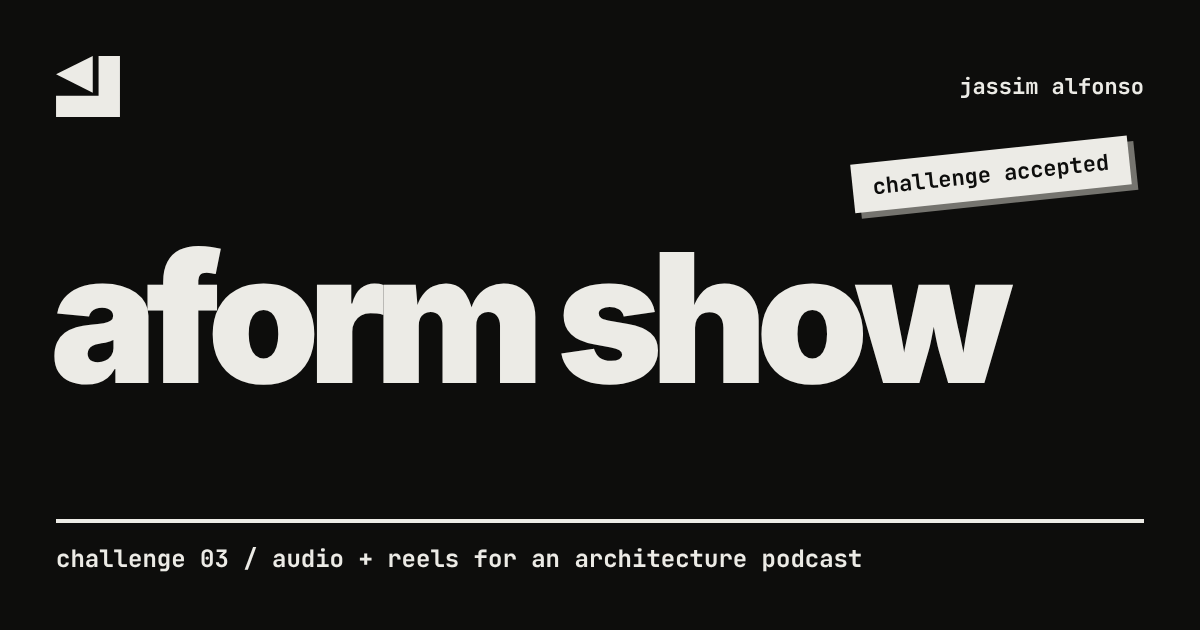
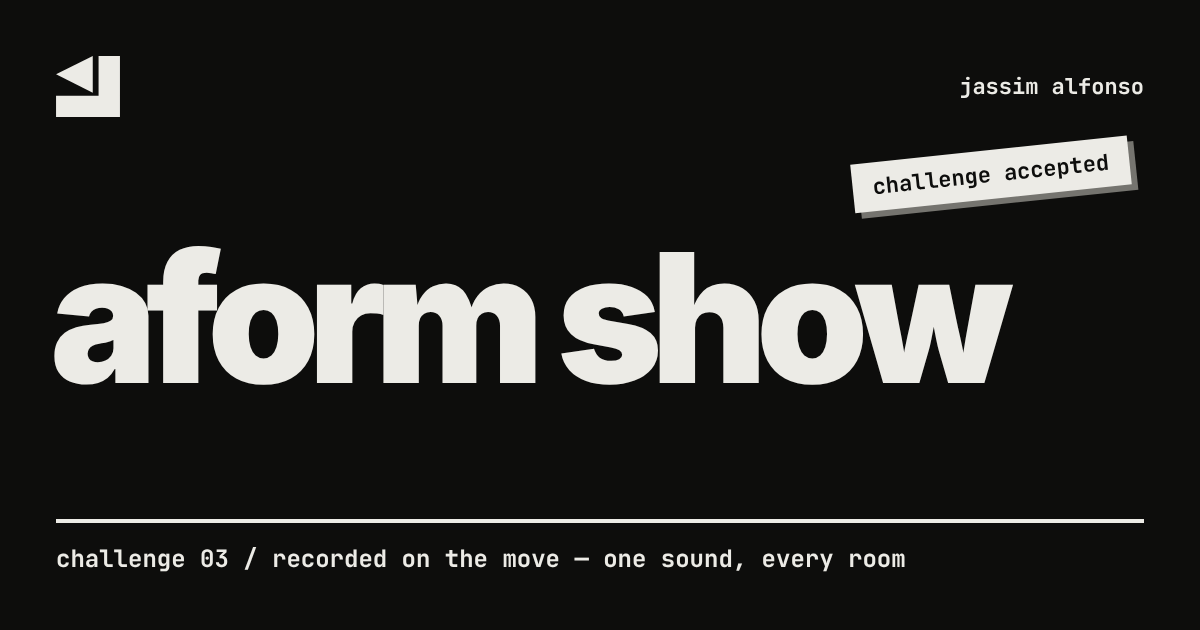
aForm: recorded on location; home hero becomes a draggable collage
- aForm challenge rewritten: the show records at the guest's location,
  so audio varies room to room and has to be kept consistent
- New demo: three locations (echo, AC hum, wind) — clean, tame, level to −16
- Filler + reel demo moves to "The edit"
- Home hero: masthead strip and draggable, tap-to-open cut-outs of the
  work, so the first screen isn't bare on phones or wide screens

Claude-Session: https://claude.ai/code/session_01YStkADWJgprAfQxXE7cLfe

Changed region(s): [[0.2158, 0.8746, 0.7708, 0.9048]]

diff --git a/css/style.css b/css/style.css
@@ -764,6 +764,110 @@ input[type="range"]::-moz-range-thumb { width: 16px; height: 16px; background: v
 .af-play { margin-top: 0.75rem; width: 100%; border: 1px solid var(--w) !important; padding: 0.55rem !important; }
 .af-play:hover { background: var(--w) !important; color: var(--k) !important; }
 
+/* aForm: three locations, one sound */
+.rm-steps { display: flex; flex-wrap: wrap; gap: 0.5rem; margin-bottom: 1.5rem; }
+.rm-steps button { border: 1px solid var(--g) !important; padding: 0.45rem 0.8rem 0.45rem 0.45rem !important; display: flex; gap: 0.5rem; align-items: center; }
+.rm-steps b { width: 1.4rem; height: 1.4rem; display: grid; place-items: center; background: var(--w); color: var(--k); }
+.rm-steps button[aria-pressed="true"] { background: var(--w); color: var(--k); border-color: var(--w) !important; }
+.rm-steps button[aria-pressed="true"] b { background: var(--k); color: var(--w); }
+.rm-steps .rm-reset { padding-left: 0.8rem !important; margin-left: auto; }
+.rm-rows { display: grid; gap: 1px; background: color-mix(in srgb, var(--w) 25%, transparent); border: 1px solid color-mix(in srgb, var(--w) 25%, transparent); }
+.rm-row { display: grid; grid-template-columns: 10rem 1fr 8.5rem; gap: 1rem; align-items: center; padding: 0.9rem 1rem; background: var(--k); }
+.rm-label { display: grid; }
+.rm-label span, .rm-read { color: var(--g); }
+.rm-read { display: grid; text-align: right; font-variant-numeric: tabular-nums; }
+.rm-wave { display: flex; align-items: center; gap: 2px; height: 64px; }
+.rm-wave i { flex: 1; background: var(--w); transition: height 0.5s var(--snap), background 0.3s; }
+.rm-wave i.n { background: var(--g); }
+.rm-row.is-ok .rm-label b::after { content: " ✓"; }
+.rm-foot { display: flex; flex-wrap: wrap; justify-content: space-between; gap: 1rem; margin-top: 1rem; padding: 0.75rem 1rem; border: 1px solid var(--w); }
+.rm-foot.is-ok { background: var(--w); color: var(--k); }
+.rm-verdict { font-weight: 700; }
+@media (max-width: 800px) {
+	.rm-row { grid-template-columns: 1fr 1fr; }
+	.rm-wave { grid-column: 1 / -1; order: 3; height: 48px; }
+	.rm-steps .rm-reset { margin-left: 0; }
+}
+
+/* =========================================================
+   HOME HERO: masthead + draggable cut-out collage
+   ========================================================= */
+.hero--home { padding-top: 6.5rem; }
+.masthead {
+	position: absolute; top: 5.25rem; left: var(--pad); right: var(--pad);
+	display: flex; gap: 1.25rem; flex-wrap: wrap;
+	padding: 0.45rem 0; border-top: 1px solid var(--w); border-bottom: 1px solid var(--w);
+	color: var(--g); font-size: 0.7rem;
+}
+.masthead span + span::before { content: "/"; margin-right: 1.25rem; color: color-mix(in srgb, var(--w) 30%, transparent); }
+.masthead span:last-child { margin-left: auto; color: var(--w); }
+.masthead span:last-child::before { content: none; }
+
+.collage {
+	position: absolute; left: var(--pad); right: var(--pad);
+	top: 8.5rem; height: calc(100% - 8.5rem - 22rem);
+	min-height: 18rem;
+	pointer-events: none;
+}
+.cut {
+	position: absolute; left: var(--x); top: var(--y); width: var(--cw);
+	pointer-events: auto;
+	padding: 0.45rem 0.45rem 0;
+	background: var(--w); color: var(--k);
+	box-shadow: 8px 8px 0 color-mix(in srgb, #000 55%, transparent);
+	transform: translate(var(--dx, 0px), var(--dy, 0px)) rotate(var(--r));
+	cursor: grab; touch-action: none; user-select: none;
+	animation: drop 0.6s var(--snap) both;
+	animation-delay: calc(0.45s + var(--i) * 90ms);
+	transition: box-shadow 0.2s, scale 0.2s;
+}
+.cut::before { /* tape */
+	content: ""; position: absolute; top: -0.7rem; left: 50%;
+	width: 42%; height: 1.3rem; transform: translateX(-50%) rotate(-3deg);
+	background: color-mix(in srgb, var(--w) 65%, transparent);
+	box-shadow: 0 0 0 1px color-mix(in srgb, var(--k) 15%, transparent);
+}
+.cut img { width: 100%; height: auto; display: block; filter: grayscale(1) contrast(1.35) brightness(1.05); transition: filter 0.25s; pointer-events: none; }
+.cut:hover img { filter: none; }
+.cut:hover { scale: 1.03; z-index: 5; }
+.cut.is-drag { cursor: grabbing; scale: 1.06; box-shadow: 16px 16px 0 color-mix(in srgb, #000 45%, transparent); transition: none; }
+.cut-cap { display: block; padding: 0.35rem 0.1rem 0.4rem; font-size: 0.68rem; font-weight: 700; }
+.cut-audio { display: grid; gap: 0.5rem; padding: 0.75rem; background: var(--k); color: var(--w); aspect-ratio: 4 / 3; align-content: space-between; }
+.cut-audio b { font-size: 1.6rem; font-weight: 900; letter-spacing: -0.05em; line-height: 1; }
+.cut-audio small { font: 0.65rem var(--mono); color: var(--g); }
+.cut-wave { display: flex; align-items: center; gap: 2px; height: 3rem; }
+.cut-wave i { flex: 1; background: var(--w); animation: eq 1.1s ease-in-out infinite alternate; animation-delay: calc(var(--d, 0) * 1ms); }
+.cut-wave i:nth-child(3n) { animation-duration: 0.8s; }
+.cut-wave i:nth-child(4n) { animation-duration: 1.4s; }
+@keyframes eq { to { transform: scaleY(0.35); } }
+@keyframes drop {
+	from { opacity: 0; transform: translate(0, -40px) rotate(calc(var(--r) * -3)) scale(1.3); }
+	to { opacity: 1; }
+}
+.collage-tape { position: absolute; top: auto !important; right: 2% !important; bottom: -1rem; left: auto !important; pointer-events: none; z-index: 6; }
+
+/* the name reads through anything dragged over it */
+.hero--home .hero-title { position: relative; z-index: 4; pointer-events: none; mix-blend-mode: difference; color: #fff; }
+.hero--home .hero-title .ch { pointer-events: auto; }
+.hero--home .hero-title .ch.hit { -webkit-text-stroke-color: #fff; }
+.hero--home .hero-mark { fill: #fff; }
+.hero--home .hero-foot { position: relative; z-index: 4; }
+
+@media (max-width: 800px) {
+	.hero--home { padding-top: 5.5rem; }
+	.masthead { top: 4.6rem; gap: 0.6rem; font-size: 0.62rem; }
+	.masthead span + span::before { margin-right: 0.6rem; }
+	.collage { top: 7rem; height: auto; bottom: 23rem; min-height: 16rem; }
+	.cut { left: var(--mx); top: var(--my); width: var(--mw); padding: 0.3rem 0.3rem 0; box-shadow: 5px 5px 0 color-mix(in srgb, #000 55%, transparent); }
+	.cut--sm-hide, .hide-sm { display: none; }
+	.masthead span:nth-child(4) { margin-left: auto; color: var(--w); }
+	.cut-cap { font-size: 0.6rem; }
+	.cut-audio b { font-size: 1.2rem; }
+	.cut-wave { height: 2rem; }
+	.collage-tape { bottom: -1.5rem; right: 0 !important; }
+}
+@media (prefers-reduced-motion: reduce) { .cut, .cut-wave i { animation: none; } }
+
 /* 404 */
 .lost { min-height: 100svh; display: grid; place-content: center; text-align: center; padding: var(--pad); gap: 1.5rem; }
 .lost h1 { font-size: clamp(8rem, 40vw, 30rem); font-weight: 900; letter-spacing: -0.08em; line-height: 0.8; }

diff --git a/aform.html b/aform.html
@@ -42,15 +42,15 @@
 		<section class="hero hero--case">
 			<p class="mono case-kicker">challenge 03 / ongoing / audio + reels</p>
 			<h1 class="hero-title" style="--n:10"><span>aForm Show</span></h1>
-			<span class="tape mono">the edit is invisible when it works</span>
+			<span class="tape mono">new room. same show.</span>
 			<div class="hero-foot">
-				<p class="hero-sub">I edit the audio and cut the reels for The aForm Show, a bi-weekly architecture & design podcast — now on video as well as audio.</p>
+				<p class="hero-sub">I edit the audio and cut the reels for The aForm Show, a bi-weekly architecture & design podcast — recorded on the move, wherever the guest is.</p>
 				<p class="case-links mono"><a href="https://linktr.ee/aformshow" target="_blank" rel="noopener">listen ↗</a> <a href="https://open.spotify.com/show/5NYCkZ09wAjDFvDq751XsL" target="_blank" rel="noopener">spotify ↗</a> <a href="https://www.youtube.com/@theaformshow2946" target="_blank" rel="noopener">youtube ↗</a></p>
 			</div>
 		</section>
 		<dl class="facts mono">
 			<div><dt>role</dt><dd>audio editor + reels</dd></div>
-			<div><dt>show</dt><dd>architecture & design</dd></div>
+			<div><dt>recorded</dt><dd>on location</dd></div>
 			<div><dt>cadence</dt><dd>bi-weekly</dd></div>
 			<div><dt>reels per episode</dt><dd>3–6</dd></div>
 		</dl>
@@ -58,17 +58,26 @@
 		<section class="section">
 			<header class="section-head"><h2>Challenge</h2><span class="mono">[01]</span></header>
 			<div class="case-body">
-				<p class="case-lead">Cut the <s>noise</s> fillers. Keep the person.</p>
+				<p class="case-lead">Every episode, a <s>studio</s> different room.</p>
 				<div class="case-text">
-					<p>Every episode is a long, honest conversation on a couch. Every “um” makes it longer — but cut too much and the hosts stop sounding like themselves. The auto tools I tried cut so hard the tone went flat.</p>
-					<p>Then the show moved to video, and the job grew: turn each episode into three to six 20–30 second reels, captioned in the show's style, that make someone stop scrolling.</p>
+					<p>The show goes to the guest: their office, their majlis, their site. Great for the conversation — hard on the audio. One week it's an echoey meeting room, the next it's an AC unit humming behind the mics, the next it's wind and traffic.</p>
+					<p>The listener shouldn't notice any of that. My job is to keep the sound consistent from episode to episode — same loudness, same clarity, same show — whatever room it was recorded in.</p>
 				</div>
 			</div>
 		</section>
 
 		<section class="section">
 			<header class="section-head"><h2>Try it</h2><span class="mono">[02]</span></header>
-			<p class="mono snaps-note">a made-up line, not from an episode. switch the edit and watch what the tool takes with it.</p>
+			<p class="mono snaps-note">three made-up recordings from three locations. clean them, then level them, until they sound like one show.</p>
+			<div class="demo" data-demo="rooms">
+				<div class="demo-head mono"><span class="live">live — three rooms, one sound</span><span>try it ↓</span></div>
+				<div class="demo-body"></div>
+			</div>
+		</section>
+
+		<section class="section">
+			<header class="section-head"><h2>The edit</h2><span class="mono">[03]</span></header>
+			<p class="mono snaps-note">then the edit itself. a made-up line — switch the edit and watch what a blunt tool takes with it.</p>
 			<div class="demo" data-demo="aform">
 				<div class="demo-head mono"><span class="live">live — filler edit + reel</span><span>try it ↓</span></div>
 				<div class="demo-body"></div>
@@ -76,23 +85,23 @@
 		</section>
 
 		<section class="section">
-			<header class="section-head"><h2>How it works</h2><span class="mono">[03]</span></header>
+			<header class="section-head"><h2>How it works</h2><span class="mono">[04]</span></header>
 			<ol class="how">
-				<li><div><h3>Clean by ear</h3><p>Ums and uhs go when they break the flow. Fillers that carry rhythm or warmth stay. A blunt rule can't tell “feel like” from “like,”.</p></div></li>
-				<li><div><h3>Find the 30 seconds</h3><p>Each episode gets scanned for moments that stand alone: one idea, a clear start, a line that lands. AI picks are a first draft, not the answer.</p></div></li>
-				<li><div><h3>Captions that move</h3><p>Three words at a time, the spoken word marked, in the show's look — most people watch with the sound off.</p></div></li>
-				<li><div><h3>Ship on schedule</h3><p>Bi-weekly means the edit can't be precious. A repeatable process beats a perfect one-off.</p></div></li>
+				<li><div><h3>Listen to the room first</h3><p>Every location has its own problem — echo, hum, wind. Each gets fixed for what it is, not with one preset for everything.</p></div></li>
+				<li><div><h3>Clean, but keep the voice</h3><p>Noise down, room tamed, fillers trimmed by ear. Push any of it too far and the hosts stop sounding like themselves.</p></div></li>
+				<li><div><h3>Level to one target</h3><p>Every episode is brought to the same loudness, so nobody reaches for the volume between episodes — or between guests.</p><code class="code">target ≈ −16 LUFS · peaks below −1 dB</code></div></li>
+				<li><div><h3>Then the reels</h3><p>Three to six 20–30 second clips per episode, captioned three words at a time in the show's look — most people watch with the sound off.</p></div></li>
 			</ol>
 		</section>
 
 		<section class="section about">
-			<header class="section-head"><h2>Learned</h2><span class="mono">[04]</span></header>
+			<header class="section-head"><h2>Learned</h2><span class="mono">[05]</span></header>
 			<div class="about-body">
 				<p class="about-lead">The best edit is the one <em>nobody hears</em>.</p>
 				<ul class="now">
-					<li>Tone over speed <span>a tighter episode that doesn't sound like them is a worse episode</span></li>
-					<li>Tools draft, ears decide <span>auto highlights and filler cuts get checked, every time</span></li>
-					<li>Process beats heroics <span>the hosts have day jobs; the system has to fit around them</span></li>
+					<li>Consistency is the brand <span>listeners forgive a room; they don't forgive a jump in volume</span></li>
+					<li>Tools draft, ears decide <span>auto noise removal and filler cuts get checked, every time</span></li>
+					<li>Process beats heroics <span>bi-weekly, on location, around everyone's day jobs</span></li>
 				</ul>
 			</div>
 		</section>

diff --git a/js/demos.js b/js/demos.js
@@ -481,6 +481,93 @@
 		render();
 	};
 
+	/* =====================================================
+	   THE AFORM SHOW — three locations, one sound
+	   Each clip is recorded somewhere different. Clean, then level.
+	   ===================================================== */
+	demos.rooms = (root) => {
+		const TARGET = -16; // LUFS — a common podcast loudness target
+		const CLIPS = [
+			{ name: "client office", issue: "echo", lufs: -23, noise: -50, echo: true },
+			{ name: "majlis", issue: "ac hum", lufs: -14, noise: -36, hum: true },
+			{ name: "site visit", issue: "wind + traffic", lufs: -19, noise: -30 },
+		];
+		const STEPS = [
+			{ id: "nr", label: "clean noise", hint: "hum, wind, traffic down — voice untouched" },
+			{ id: "eq", label: "tame the room", hint: "less echo, voices sit in the same space" },
+			{ id: "lv", label: "level to −16", hint: "every location as loud as the next" },
+		];
+		const on = { nr: false, eq: false, lv: false };
+		const N = 64;
+		let seed = 7;
+		const rnd = () => ((seed = (seed * 16807) % 2147483647) / 2147483647);
+		// a speech pattern per clip: bursts of words with gaps
+		CLIPS.forEach((c) => {
+			c.bars = Array.from({ length: N }, (_, i) => {
+				const speech = Math.sin(i / 3.1 + c.lufs) + rnd() * 0.9 > 0.35;
+				return { speech, v: rnd(), tail: !speech && i > 0 };
+			});
+		});
+
+		root.innerHTML = `
+			<div class="rm-steps mono" role="group" aria-label="Processing">
+				${STEPS.map((s, i) => `<button type="button" data-step="${s.id}" aria-pressed="false"><b>${i + 1}</b>${s.label}</button>`).join("")}
+				<button type="button" data-step="reset" class="rm-reset">reset</button>
+			</div>
+			<div class="rm-rows">
+				${CLIPS.map((c, k) => `
+				<div class="rm-row" data-k="${k}">
+					<div class="rm-label mono"><b>${c.name}</b><span>${c.issue}</span></div>
+					<div class="rm-wave" aria-hidden="true">${c.bars.map(() => "<i></i>").join("")}</div>
+					<div class="rm-read mono"><span data-r="lufs"></span><span data-r="noise"></span></div>
+				</div>`).join("")}
+			</div>
+			<div class="rm-foot mono">
+				<span>loudness spread between locations <b data-v="spread"></b></span>
+				<span class="rm-verdict" data-v="verdict"></span>
+			</div>
+			<p class="pl-hint mono rm-hint">recorded wherever the guest is. press the steps in any order.</p>`;
+
+		const toH = (db) => Math.max(3, Math.min(100, ((db + 44) / 40) * 100)); // -44..-4 dB fills the bar
+		function render() {
+			const levels = [];
+			CLIPS.forEach((c, k) => {
+				const row = $(`.rm-row[data-k="${k}"]`, root);
+				const lufs = on.lv ? TARGET : c.lufs;
+				const noise = on.nr ? -62 : c.noise;
+				levels.push(lufs);
+				$$(".rm-wave i", row).forEach((bar, i) => {
+					const b = c.bars[i];
+					let db;
+					if (b.speech) db = lufs + 6 - b.v * 12;
+					else if (c.echo && !on.eq && c.bars[i - 1]?.speech) db = lufs - 4 - b.v * 6; // the room ringing after each word
+					else db = noise + (c.hum && !on.nr ? 6 * Math.sin(i * 2.1) : 0) + b.v * 4;
+					bar.style.height = toH(db) + "%";
+					bar.classList.toggle("n", !b.speech);
+				});
+				$('[data-r="lufs"]', row).textContent = `${lufs} lufs`;
+				$('[data-r="noise"]', row).textContent = `noise ${noise} db`;
+				row.classList.toggle("is-ok", on.nr && on.eq && on.lv);
+			});
+			const spread = Math.max(...levels) - Math.min(...levels);
+			$('[data-v="spread"]', root).textContent = spread + " db";
+			const done = on.nr && on.eq && on.lv;
+			$('[data-v="verdict"]', root).textContent = done ? "sounds like one show ✓" : spread > 1 ? "listener reaches for the volume" : "level, but still sounds like three rooms";
+			$(".rm-foot", root).classList.toggle("is-ok", done);
+			$$(".rm-steps [data-step]", root).forEach((b) => { if (on[b.dataset.step] !== undefined) b.setAttribute("aria-pressed", on[b.dataset.step]); });
+			const last = STEPS.filter((s) => on[s.id]).pop();
+			$(".rm-hint", root).textContent = last ? last.hint : "recorded wherever the guest is. press the steps in any order.";
+		}
+		$(".rm-steps", root).addEventListener("click", (e) => {
+			const b = e.target.closest("button");
+			if (!b) return;
+			if (b.dataset.step === "reset") Object.keys(on).forEach((k) => (on[k] = false));
+			else on[b.dataset.step] = !on[b.dataset.step];
+			render();
+		});
+		render();
+	};
+
 	/* ---------- mount ---------- */
 	$$("[data-demo]").forEach((el) => {
 		const fn = demos[el.dataset.demo];

diff --git a/index.html b/index.html
@@ -43,12 +43,23 @@
 	</header>
 
 	<main id="main">
-		<section class="hero" id="top">
+		<section class="hero hero--home" id="top">
+			<div class="masthead mono" aria-hidden="true">
+				<span>vol. 03</span><span>nov 2026</span><span data-clock>dubai</span><span>7 challenges taken</span><span class="hide-sm">drag the cut-outs ↓</span>
+			</div>
+			<div class="collage" aria-label="Work as cut-outs — drag them around, tap to open">
+				<a class="cut" href="./ikonplan.html" style="--x:46%;--y:0%;--cw:31%;--r:-3deg;--mx:0%;--my:2%;--mw:64%;--i:0" data-cursor="drag"><img src="./assets/ikonplan/plan.webp" alt="" draggable="false"><span class="cut-cap mono">01 ikonplan</span></a>
+				<a class="cut" href="./bankcal.html" style="--x:82%;--y:3%;--cw:12%;--r:5deg;--mx:67%;--my:0%;--mw:31%;--i:1" data-cursor="drag"><img src="./assets/projects/bankcal-today.webp" alt="" draggable="false"><span class="cut-cap mono">02 bankcal</span></a>
+				<a class="cut" href="./aform.html" style="--x:62%;--y:44%;--cw:19%;--r:-6deg;--mx:50%;--my:50%;--mw:46%;--i:2" data-cursor="drag"><span class="cut-audio"><b>aForm</b><span class="cut-wave"><i style="height:30%"></i><i style="height:55%"></i><i style="height:80%"></i><i style="height:45%"></i><i style="height:95%"></i><i style="height:60%"></i><i style="height:35%"></i><i style="height:70%"></i><i style="height:100%"></i><i style="height:50%"></i><i style="height:25%"></i><i style="height:65%"></i><i style="height:85%"></i><i style="height:40%"></i><i style="height:55%"></i><i style="height:30%"></i><i style="height:75%"></i><i style="height:45%"></i></span><small>▶ listen to the room</small></span><span class="cut-cap mono">03 aform show</span></a>
+				<a class="cut" href="./scoreboard.html" style="--x:36%;--y:26%;--cw:20%;--r:4deg;--mx:4%;--my:42%;--mw:46%;--i:3" data-cursor="drag"><img src="./assets/png/ja-basketball-scoreboard-v2.png" alt="" draggable="false"><span class="cut-cap mono">04 scoreboard</span></a>
+				<a class="cut cut--sm-hide" href="./passgen.html" style="--x:20%;--y:4%;--cw:16%;--r:-7deg;--mx:0%;--my:0%;--mw:0%;--i:4" data-cursor="drag"><img src="./assets/png/ja-password-generator.png" alt="" draggable="false"><span class="cut-cap mono">05 passgen</span></a>
+				<a class="cut cut--sm-hide" href="./hometown.html" style="--x:84%;--y:52%;--cw:14%;--r:3deg;--mx:0%;--my:0%;--mw:0%;--i:5" data-cursor="drag"><img src="./assets/png/ja-hometown-project.png" alt="" draggable="false"><span class="cut-cap mono">07 hometown</span></a>
+				<span class="tape mono collage-tape">challenge accepted</span>
+			</div>
 			<h1 class="hero-title">
 				<span>Jassim</span>
 				<span>Alfonso<svg class="hero-mark" aria-hidden="true"><use href="#mark"/></svg></span>
 			</h1>
-			<span class="tape mono">challenge accepted</span>
 			<div class="hero-foot">
 				<p class="hero-sub">
 					I take on challenges — at work, on the web, in the edit — and build my way through them.
@@ -112,7 +123,7 @@
 					<a href="./aform.html" data-cursor="open">
 						<span class="row-no mono">03</span>
 						<span class="row-title">aForm Show</span>
-						<span class="row-desc">Audio + reels for an architecture podcast.</span>
+						<span class="row-desc">Recorded on the move. One sound, every room.</span>
 						<span class="row-tags mono">audio / video</span>
 						<span class="row-go">→</span>
 					</a>

diff --git a/js/site.js b/js/site.js
@@ -230,6 +230,35 @@
 	setTheme(current());
 	$$("[data-theme-toggle]").forEach((b) => b.addEventListener("click", toggleTheme));
 
+	/* ---------- hero collage: drag the cut-outs, tap to open ---------- */
+	let topZ = 10;
+	$$(".cut").forEach((el) => {
+		let sx = 0, sy = 0, dx = 0, dy = 0, moved = false, id = null;
+		el.addEventListener("pointerdown", (e) => {
+			if (e.button !== 0) return;
+			id = e.pointerId; moved = false;
+			sx = e.clientX - dx; sy = e.clientY - dy;
+			el.setPointerCapture(id);
+			el.style.zIndex = ++topZ;
+		});
+		el.addEventListener("pointermove", (e) => {
+			if (e.pointerId !== id) return;
+			const nx = e.clientX - sx, ny = e.clientY - sy;
+			if (!moved && Math.hypot(nx - dx, ny - dy) < 6) return;
+			moved = true;
+			el.classList.add("is-drag");
+			dx = nx; dy = ny;
+			el.style.setProperty("--dx", dx + "px");
+			el.style.setProperty("--dy", dy + "px");
+		});
+		const end = (e) => { if (e.pointerId === id) { id = null; el.classList.remove("is-drag"); } };
+		el.addEventListener("pointerup", end);
+		el.addEventListener("pointercancel", end);
+		el.addEventListener("click", (e) => { if (moved) { e.preventDefault(); moved = false; } });
+		el.addEventListener("dragstart", (e) => e.preventDefault());
+	});
+	$$(".cut-wave i").forEach((i, k) => i.style.setProperty("--d", (k * 97) % 900));
+
 	/* ---------- dubai clock ---------- */
 	const clocks = $$("[data-clock]");
 	if (clocks.length) {
